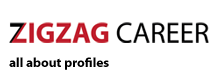
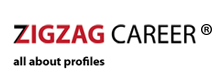
Added the ® symbol where it's supposed to show up
Also added a "Console Log" welcome message

Changed region(s): [[0.0271, 0.2619, 0.9774, 0.5238], [0.0271, 0.6667, 0.5158, 0.8333]]

diff --git a/js/main.js b/js/main.js
@@ -8,6 +8,8 @@ var _storyPos = [0];
 var _curStoryPos = 0;
 
 $(function() {
+
+	console.log("Chào bạn đã viếng thăm console log. Nếu bạn quan tâm đến cơ hội làm việc tại mảng kỹ thuật ở ZigZag Career hoặc các công ty liên kết với ZigZag Career, xin hãy gửi email về địa chỉ info@zigzagcareer.com nhé!");
 	
 	/*$(window).bind('scroll', function() {
 		console.log($(window).scrollTop());

diff --git a/css/main.css b/css/main.css
@@ -388,6 +388,11 @@ div.illus4-comp div {
 	color: #000000;
 }
 
+.superscript {
+	vertical-align: super;
+	font-size: .83em;
+}
+
 @media only screen and (min-width: 768px) {
 
 	header#main-header {

diff --git a/index.php b/index.php
@@ -80,7 +80,7 @@
 		<article id="art0" class="clearfix">
 			<section class="sect-left">
 				<h2>Chúng tôi là ai?</h2>
-				<p>ZigZag Career giúp khách hàng thành công trong học tập và làm việc, đồng thời xây dựng thương hiệu cá nhân đẳng cấp và chuyên nghiệp qua các dịch vụ: <strong>Viết Hồ Sơ Năng Lực, Xây dựng thương hiệu cá nhân, Tư vấn và lên kế hoạch học tập, du học và nghề nghiệp và Chiến lược tìm việc để có được công việc mơ ước.</strong> Dịch vụ của chúng tôi là tất cả những gì khách hàng cần để xây dựng một thương hiệu cá nhân thật sự chuyên nghiệp và thành công.</p>
+				<p>ZigZag Career <span class="superscript">&reg;</span> giúp khách hàng thành công trong học tập và làm việc, đồng thời xây dựng thương hiệu cá nhân đẳng cấp và chuyên nghiệp qua các dịch vụ: <strong>Viết Hồ Sơ Năng Lực, Xây dựng thương hiệu cá nhân, Tư vấn và lên kế hoạch học tập, du học và nghề nghiệp và Chiến lược tìm việc để có được công việc mơ ước.</strong> Dịch vụ của chúng tôi là tất cả những gì khách hàng cần để xây dựng một thương hiệu cá nhân thật sự chuyên nghiệp và thành công.</p>
 				<!--<p>Xin chào các bạn, tại ZigZag Career, chúng tôi xin tự nhận mình là <strong>"Gấu"</strong>. Các Gấu sẽ giúp bạn <strong>xây dựng hoặc sửa lỗi, hoàn thiện văn bản CV (hay còn gọi là Resume - Hồ Sơ Năng Lực)</strong>. Một văn bản với nội dung mạch lạc và cách trình bày thông minh sẽ đưa thông tin đến người đọc một cách nhanh chóng và tự nhiên nhất, giúp bạn dễ được chú ý hơn trong mắt người tuyển dụng.</p>-->
 			</section>
 			<section class="sect-right">
@@ -117,8 +117,8 @@
 		
 		<article class="story" id="art3">
 		<div>
-			<h2>Tại sao nên chọn ZigZag Career?</h2>
-			<p>Tại ZigZag Career, chúng tôi tin rằng Một Hồ Sơ có thể mang đến cho bạn Triệu Cơ Hội để khẳng định năng lực và tạo thương hiệu cá nhân của mình.</p>
+			<h2>Tại sao nên chọn ZigZag Career<span class="superscript">&reg;</span> ?</h2>
+			<p>Tại ZigZag Career<span class="superscript">&reg;</span>, chúng tôi tin rằng Một Hồ Sơ có thể mang đến cho bạn Triệu Cơ Hội để khẳng định năng lực và tạo thương hiệu cá nhân của mình.</p>
 			<div class="illus clearfix" id="illus3" data-smart-height="true" data-dim-ratio="0.41">
 			
 				<div class="illus3-child" id="illus31">
@@ -168,7 +168,7 @@
 		
 		<footer id="main-footer">
 			<div>
-				<p>&copy; 2012 - 2013 ZigZag Career | Liên hệ: <a href="mailto:info@zigzagcareer.com" onclick="ga('send', 'event', 'User Behaviour', 'Click', 'Send email from footer link')">info@zigzagcareer.com</a></p>
+				<p>&copy; 2012 - 2013 ZigZag Career Co., Ltd. <!--ZigZag Career<span class="superscript">&reg;</span> là nhãn hiệu đã được đăng ký bản quyền sở hữu trí tuệ<br />--> | Liên hệ: <a href="mailto:info@zigzagcareer.com" onclick="ga('send', 'event', 'User Behaviour', 'Click', 'Send email from footer link')">info@zigzagcareer.com</a></p>
 				<!--<p class="vcard">
 					<a class="fn org url" href="http://zigzagcareer.com" title="ZigZag Career Website">
 						<span class="organization-name">ZigZag Career</span>
